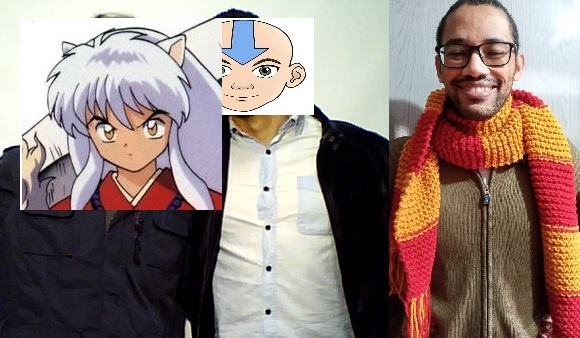
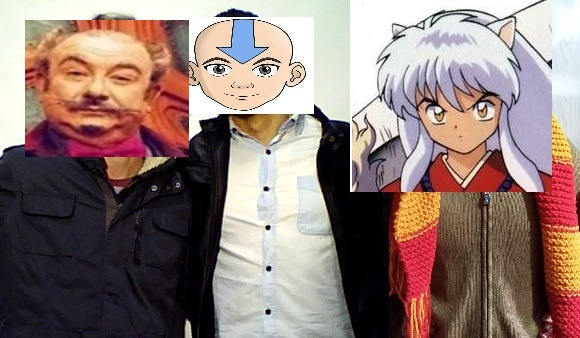
Update Files

diff --git a/Lab1_arquivos/L1_5_montagem_avatar.py b/Lab1_arquivos/L1_5_montagem_avatar.py
@@ -49,21 +49,21 @@ def recortar_figura(img: str, board: int, resized: bool, scale: int):
     """
     """
     frame = cv2.imread(img)
-
     if resized == True:
         largura, altura, _ = frame.shape
-        frame = cv2.resize(frame, (largura//scale, altura//scale))
-    
-    frame = frame[board:-board, board:-board]
+        if scale >= 1: 
+            frame = cv2.resize(frame, (largura//scale, altura//scale))
+            frame = frame[board:-board, board:-board]
+        else:
+            frame = cv2.resize(frame,  (largura * 1.1, altura * 1.1))
 
     cv2.imshow("Imagem Recortada", frame)
-    cv2.imwrite(filename='./img/avatar2_recortada.jpg', img = frame)
-    cv2.waitKey(0)
-    cv2.destroyAllWindows()
+    cv2.imwrite("./img/avatar3_recortado.jpg", frame)
     return frame[board:-board, board:-board]
 
-avatar1_img = recortar_figura(img="./img/avatar2.jpg", board= 45, resized= True, scale = 4)
+# avatar1_img = recortar_figura(img="./img/avatar2.jpg", board= 45, resized= True, scale = 4)
+# recortar_figura(img="./img/avatar3_recortado.jpg", board= 2, resized= True, scale = 0.5)
 
-adicionar_avatar(img_origin="./img/Equipe.png", img_add=f"./img/avatar2_recortada.jpg", x = 174, y=18, fl=False)
-recortar_figura(img="./img/avatar1.jpg", board= 10, resized= False, scale = 1)
-adicionar_avatar(img_origin="./img/Equipe_avatar.jpg", img_add=f"./img/avatar1_recortado.jpg", x = 20, y=18, fl=False)
+adicionar_avatar(img_origin="./img/Equipe.png", img_add=f"./img/avatar2_recortada.jpg", x = 174, y=17, fl=False)
+adicionar_avatar(img_origin="./img/Equipe_avatar.jpg", img_add=f"./img/avatar1_recortado.jpg", x = 350, y=0, fl=False)
+adicionar_avatar(img_origin="./img/Equipe_avatar.jpg", img_add=f"./img/avatar3_recortado.jpg", x = 25, y=25, fl=False)
